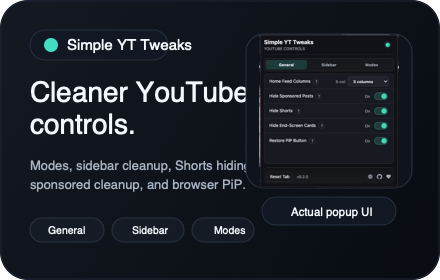
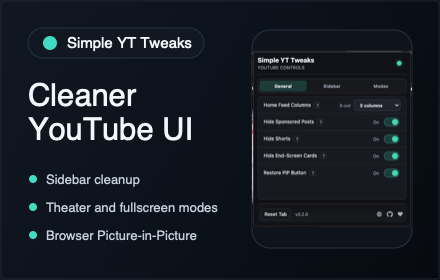
Codex: prepare 0.2.1 polish release

diff --git a/KNOWN_ISSUES.md b/KNOWN_ISSUES.md
@@ -1,16 +1,15 @@
 # Known Issues
 
-These are the current known limitations and polish items for `0.2.0`.
+These are the current known limitations and polish items after `0.2.1`.
 
 ## Current UI quirks
 
-- On some watch-page flows, opening and closing the left sidebar can leave a non-current entry visually highlighted until another pointer or navigation state update occurs. Tracked in [#1](https://github.com/cryptoteatime/simple-yt-tweaks/issues/1).
-- In some fullscreen scroll/reveal flows, YouTube's own overlay state can temporarily desync from the extension's reveal logic until another interaction updates the player state. Tracked in [#2](https://github.com/cryptoteatime/simple-yt-tweaks/issues/2).
+- On some watch-page flows, a non-current sidebar entry may briefly flash as highlighted during YouTube's own drawer transition. The extension now neutralizes this state after the sidebar settles.
 
 ## Platform-owned behavior
 
 - The extension adds a real browser Picture-in-Picture button, but it does not force YouTube's native miniplayer to open or close.
-- Native YouTube miniplayer behavior can vary by current YouTube build and browser behavior. The extension intentionally stays hands-off there.
+- Native YouTube miniplayer behavior can vary by current YouTube build and browser behavior. The extension intentionally stays hands-off there. Tracked in [#3](https://github.com/cryptoteatime/simple-yt-tweaks/issues/3).
 
 ## Scope
 

diff --git a/CHANGELOG.md b/CHANGELOG.md
@@ -1,5 +1,21 @@
 # Changelog
 
+## 0.2.1
+
+### Changed
+
+- Refreshed the Chrome Web Store small promo tile with a cleaner layout based on the current popup UI.
+
+### Fixed
+
+- Reduced stale sidebar highlight states on YouTube guide/sidebar flows by tightening pointer detection and neutral sidebar item styling.
+- Prevented fullscreen scroll interactions from entering YouTube's hidden grid-peek state when `Hide More Videos Overlay` is enabled.
+- Improved fullscreen reveal stability after pause/play and scroll interactions.
+
+### Notes
+
+- Native YouTube miniplayer scroll behavior remains platform-owned and is tracked separately for investigation.
+
 ## 0.2.0
 
 ### Added
